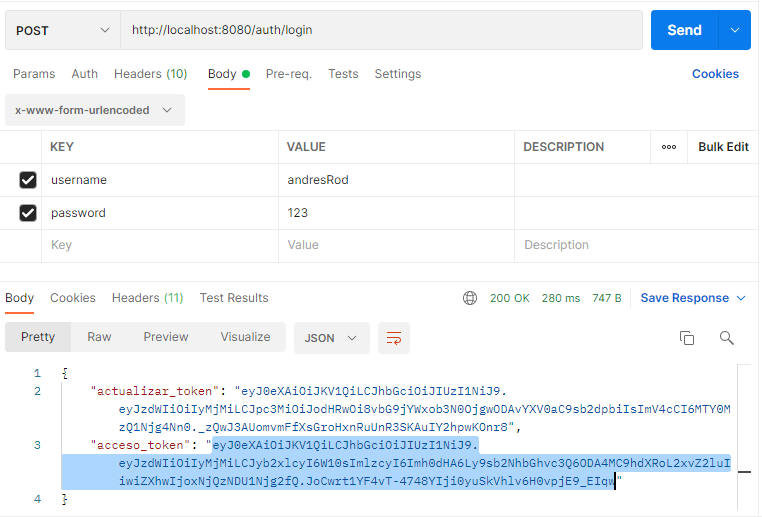
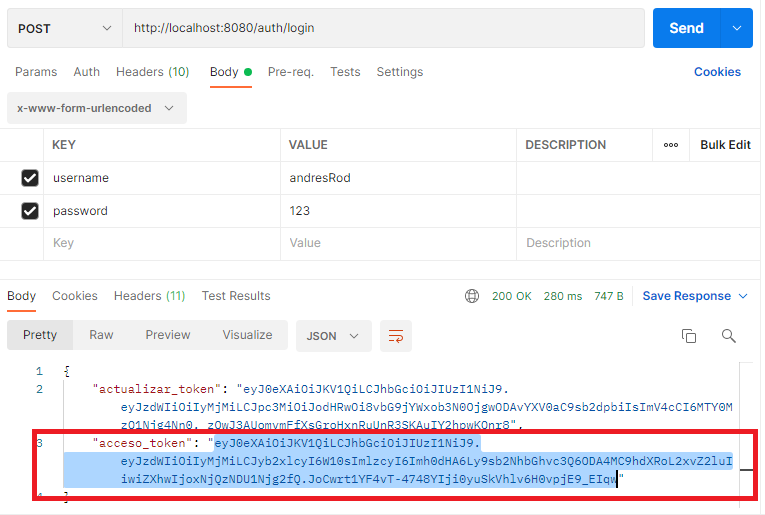
README.md: modificando

diff --git a/README.md b/README.md
@@ -49,7 +49,13 @@ Ejemplo:
 ### POST (login)
 	http://localhost:8080/auth/login
 
+Ejemplo login:
 ![img.png](img.png)
+
+Ejemplo de path usando el token generado por el login:
+
+![img_1.png](img_1.png)
+
 
 
 ## 3. Listado de Personajes
